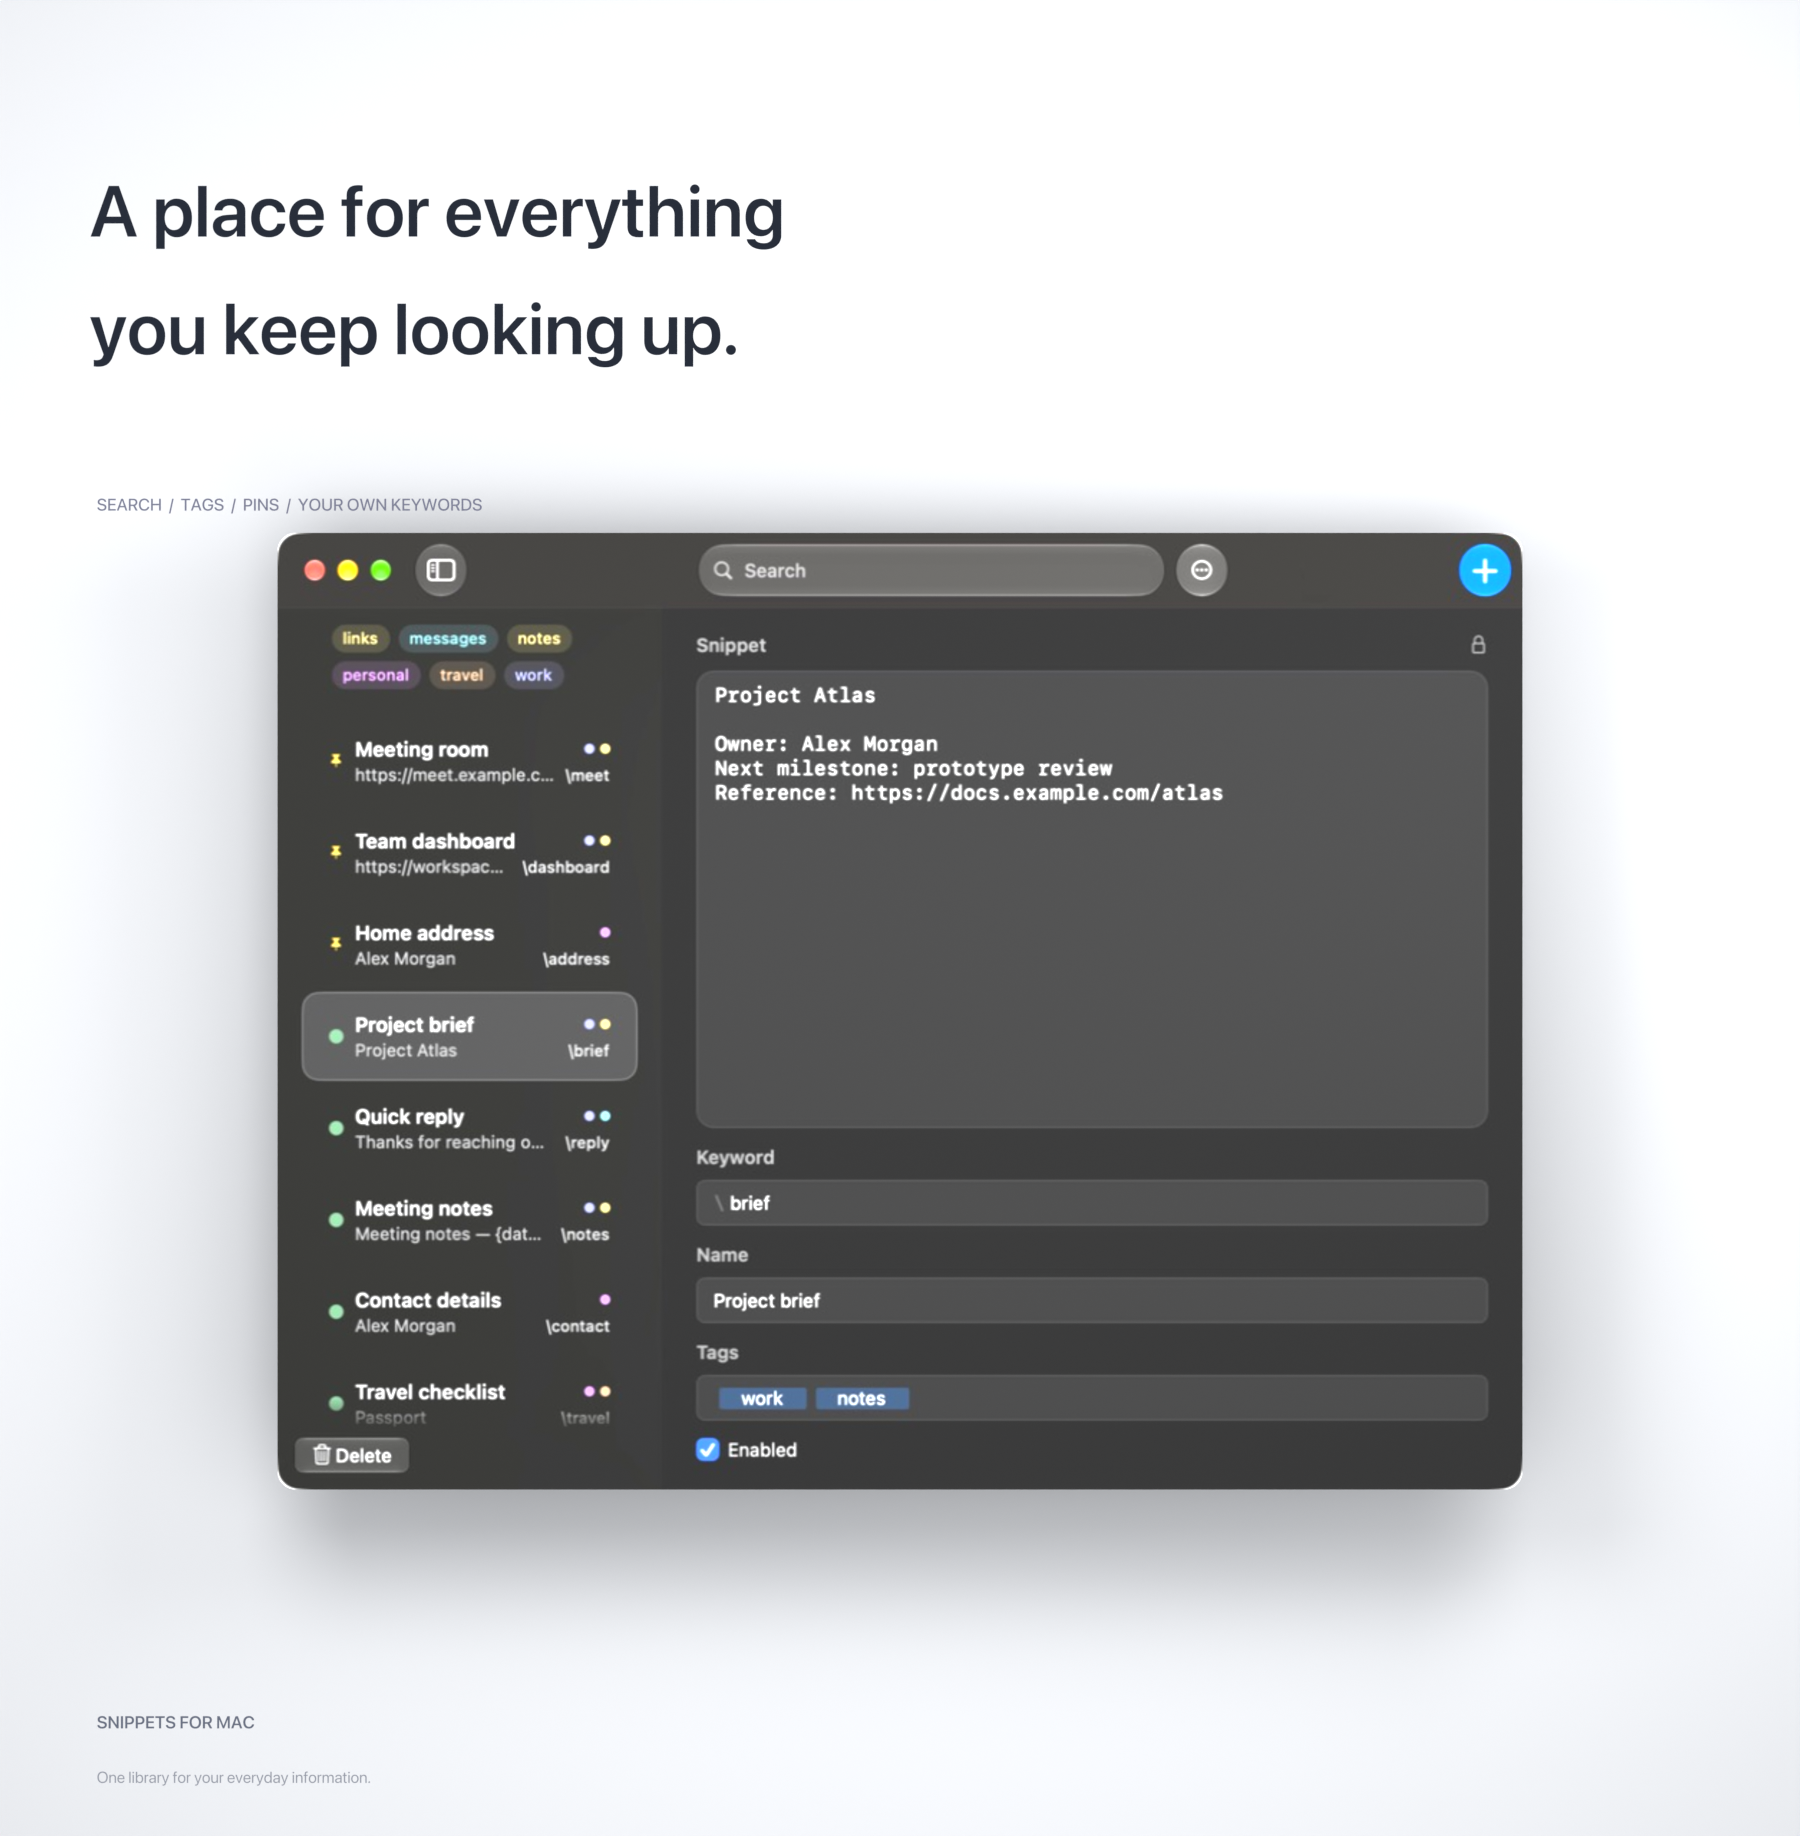
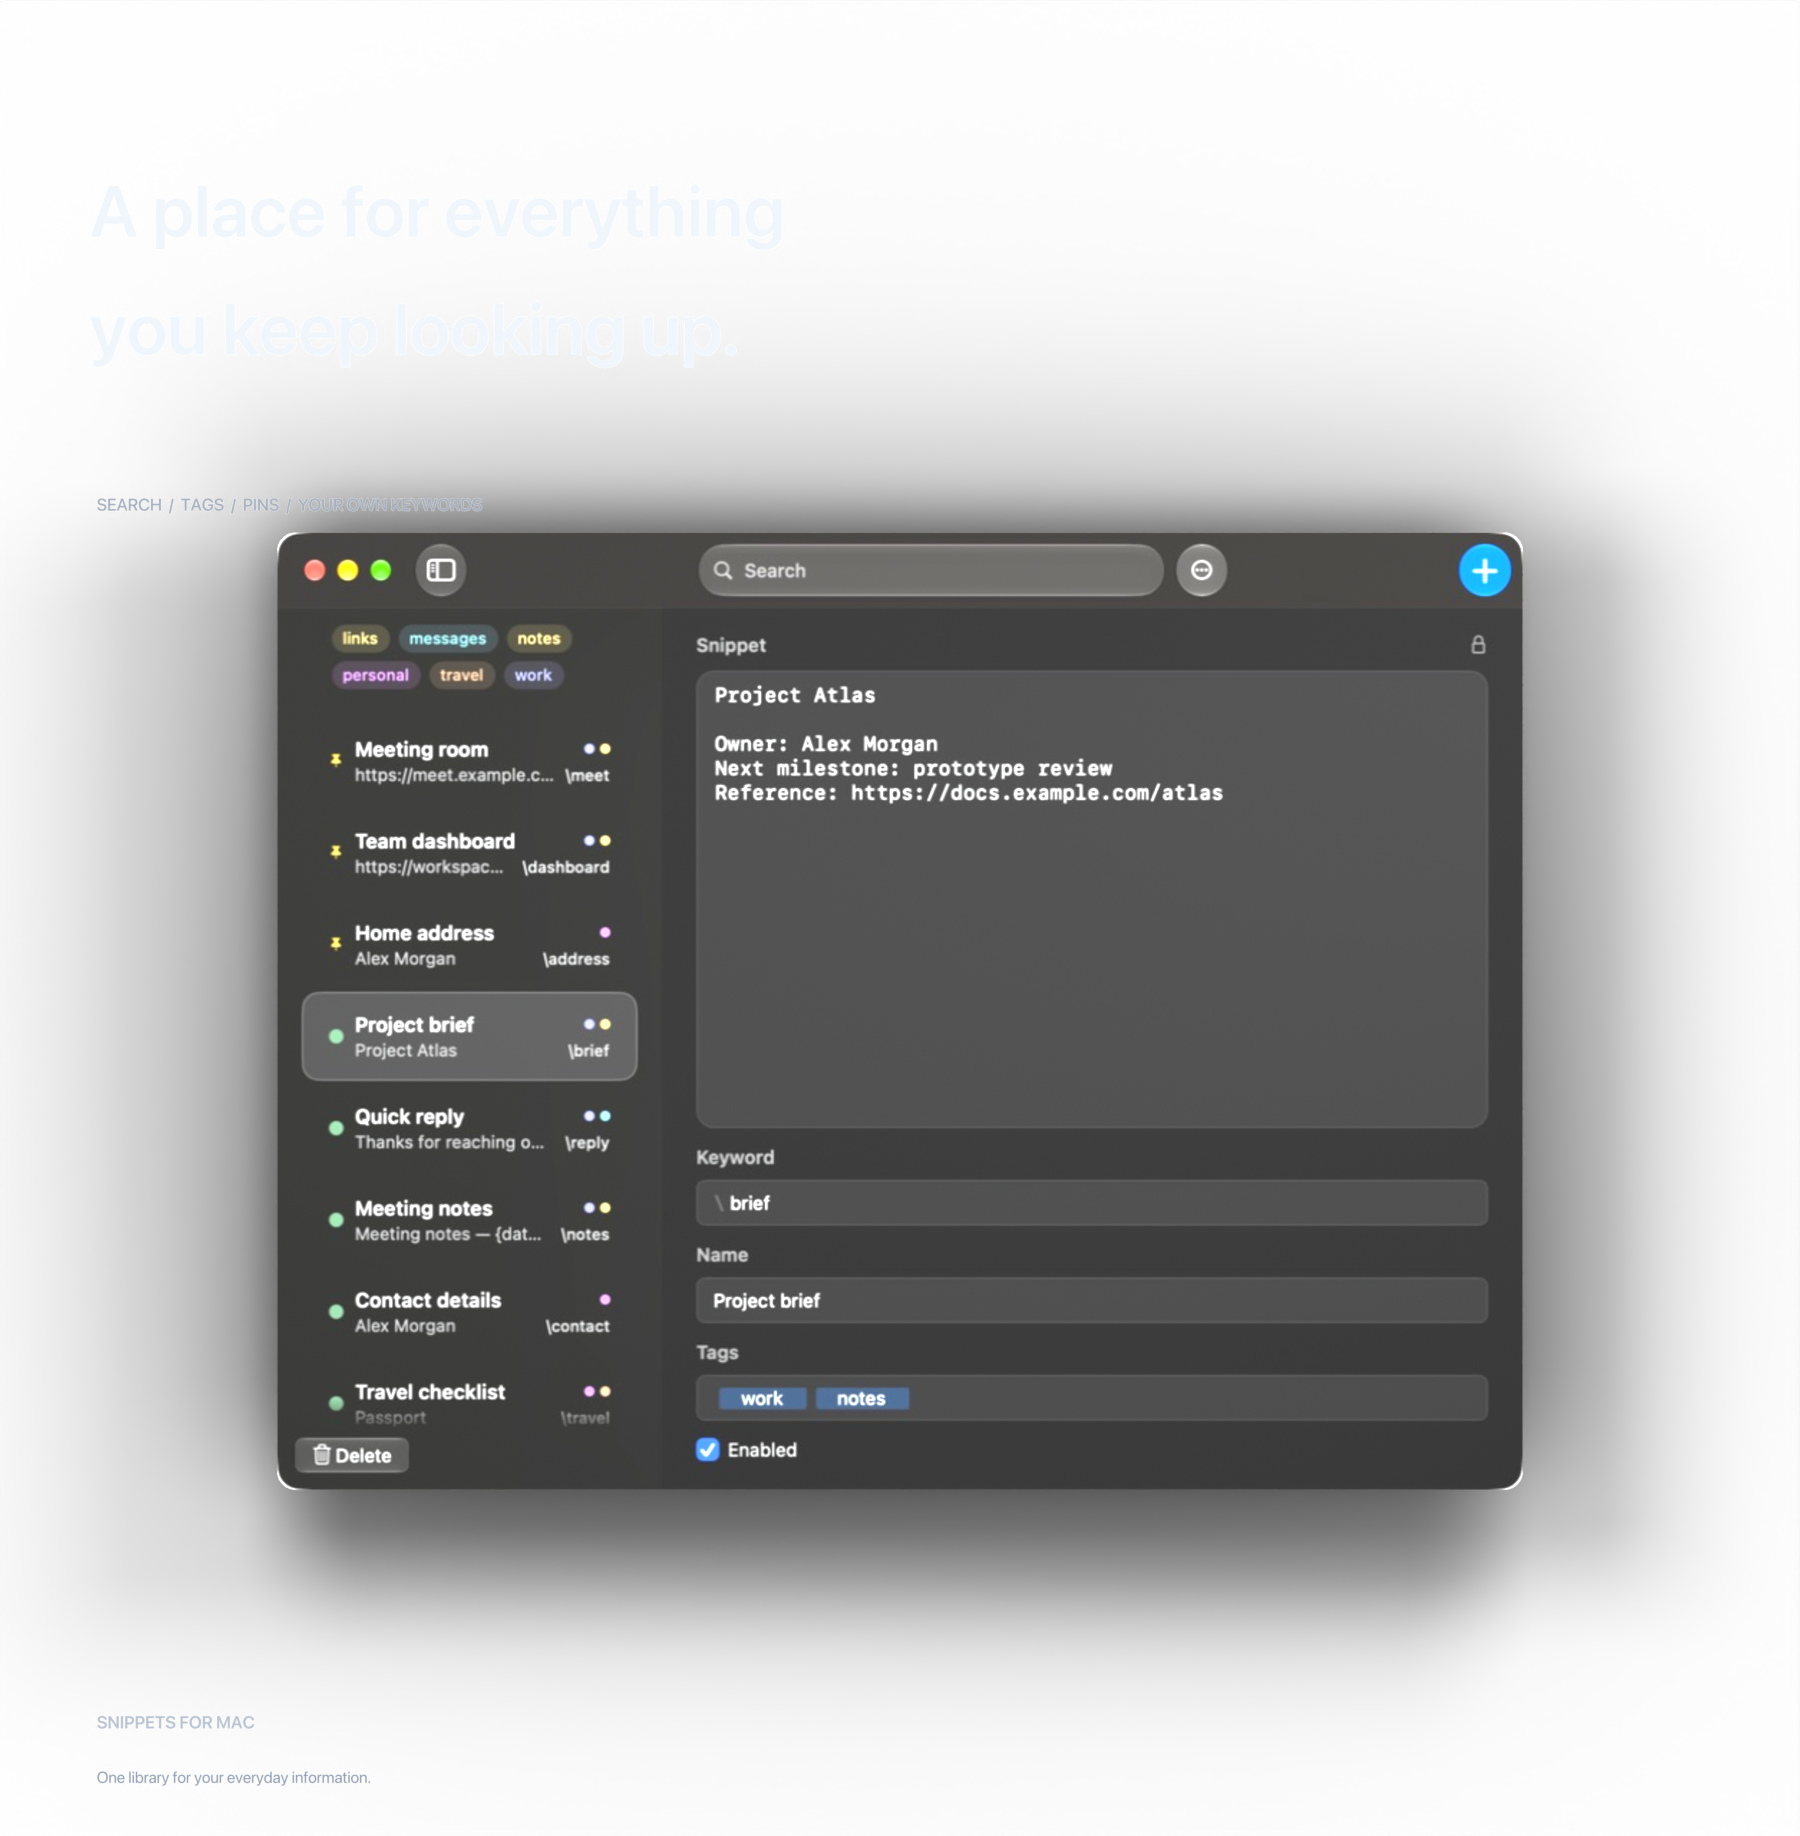
docs: blend README artwork into dark mode

Changed region(s): [[0.0311, 0.0931, 0.9333, 0.9003], [0.0622, 0.9314, 0.0933, 0.9624]]

diff --git a/scripts/render-readme-artwork.py b/scripts/render-readme-artwork.py
@@ -16,7 +16,7 @@ parser = argparse.ArgumentParser()
 parser.add_argument('--output', type=Path, default=ROOT / 'docs/images')
 parser.add_argument('--samples', type=int, default=64)
 parser.add_argument('--width', type=int, default=1800)
-parser.add_argument('--only', choices=['mac', 'inline', 'all'], default='all')
+parser.add_argument('--only', choices=['mac', 'inline', 'consent', 'all'], default='all')
 parser.add_argument('--save-blend', action='store_true', help='Also export portable Blender scenes')
 options = parser.parse_args(args)
 options.output.mkdir(parents=True, exist_ok=True)
@@ -43,7 +43,7 @@ def setup():
     scene.render.resolution_y = round(options.width * 1.02)
     scene.render.resolution_percentage = 100
     scene.render.image_settings.file_format = 'PNG'
-    scene.render.image_settings.color_mode = 'RGB'
+    scene.render.image_settings.color_mode = 'RGBA'
     scene.view_settings.view_transform = 'Standard'
     scene.view_settings.look = 'None'
     # A neutral studio environment opens the shadows; broad softboxes give the
@@ -52,14 +52,14 @@ def setup():
     background = scene.world.node_tree.nodes.get('Background')
     background.inputs['Color'].default_value = (.97, .98, 1, 1)
     background.inputs['Strength'].default_value = .65
-    scene.render.film_transparent = False
-    floor = material('Porcelain', (.64, .65, .67), 1)
+    # Let the README's dark page show through rather than baking in a white card.
+    scene.render.film_transparent = True
+    floor = material('Shadow catcher', (.5, .5, .5), 1)
     floor_shader = floor.node_tree.nodes.get('Principled BSDF')
     floor_shader.inputs['Specular IOR Level'].default_value = .08
-    floor_shader.inputs['Emission Color'].default_value = (.64, .65, .67, 1)
-    floor_shader.inputs['Emission Strength'].default_value = .06
     bpy.ops.mesh.primitive_plane_add(size=200, location=(0, 0, -1.0))
     bpy.context.object.data.materials.append(floor)
+    bpy.context.object.is_shadow_catcher = True
     for name, loc, power, size in [
             ('Key softbox', (-5, 2, 10), 1000, 8),
             ('Edge softbox', (6, 3, 7), 700, 6),
@@ -215,10 +215,10 @@ def render_mac():
     offset = camera.rotation_euler.to_quaternion() @ Vector((.25,-1.3,0))
     for obj in list(scene.objects):
         if obj.type=='MESH' and obj.name!='Plane': obj.location += offset
-    label(camera,'Your library.\nWithin reach.',-5.65,4.75,1.08,(.022,.028,.043))
-    label(camera,'LINKS  /  PASSWORDS  /  NOTES  /  API TOKENS',-5.60,2.84,.25,(.22,.23,.32),'Medium')
-    label(camera,'NATIVE macOS',-5.60,-5.65,.26,(.15,.17,.23),'Semibold')
-    label(camera,'Actual interface · layers separated for illustration',-5.60,-6.03,.23,(.32,.34,.40),'Regular')
+    label(camera,'Your library.\nWithin reach.',-5.65,4.75,1.08,(.87,.92,.97))
+    label(camera,'LINKS  /  PASSWORDS  /  NOTES  /  API TOKENS',-5.60,2.84,.25,(.38,.43,.51),'Medium')
+    label(camera,'NATIVE macOS',-5.60,-5.65,.26,(.48,.54,.63),'Semibold')
+    label(camera,'Actual interface · layers separated for illustration',-5.60,-6.03,.23,(.28,.34,.43),'Regular')
     scene.render.filepath=str(options.output/'macos-layers.png')
     if options.save_blend:
         bpy.ops.file.pack_all()
@@ -233,10 +233,10 @@ def render_front():
     screen_layer(image,'Native Mac workspace',(0,0,*image.size),.1)
     for obj in list(scene.objects):
         if obj.type=='MESH' and obj.name!='Plane': obj.location.y-=.65
-    label(camera,'A place for everything\nyou keep looking up.',-5.65,4.75,1.08,(.022,.028,.043))
-    label(camera,'SEARCH  /  TAGS  /  PINS  /  YOUR OWN KEYWORDS',-5.60,2.84,.25,(.22,.23,.32),'Medium')
-    label(camera,'SNIPPETS FOR MAC',-5.60,-5.65,.26,(.15,.17,.23))
-    label(camera,'One library for your everyday information.',-5.60,-6.03,.23,(.32,.34,.40),'Regular')
+    label(camera,'A place for everything\nyou keep looking up.',-5.65,4.75,1.08,(.87,.92,.97))
+    label(camera,'SEARCH  /  TAGS  /  PINS  /  YOUR OWN KEYWORDS',-5.60,2.84,.25,(.38,.43,.51),'Medium')
+    label(camera,'SNIPPETS FOR MAC',-5.60,-5.65,.26,(.48,.54,.63))
+    label(camera,'One library for your everyday information.',-5.60,-6.03,.23,(.28,.34,.43),'Regular')
     scene.render.filepath=str(options.output/'macos-overview.png')
     bpy.ops.render.render(write_still=True)
 
@@ -269,13 +269,11 @@ def render_inline():
         mat.node_tree.links.new(emission.outputs[0], output.inputs['Surface'])
         return mat
 
-    rounded_surface('Paper', 18.2, 11, 0, -.1,
-                    mat=flat_material('Paper', '#f5f6f8'))
-    field = flat_material('Illustrative message field', '#2a303e')
+    field = flat_material('Illustrative message field', '#171e29')
     for x in (-4.15, 4.15):
         rounded_surface('Message', 7.9, 5.5, .24, 0, mat=field, center=(x, -.75))
 
-    ink, muted = color('#1b2332'), color('#6b7280')
+    ink, muted = color('#f0f6fc'), color('#9ba8b9')
     text, accent = color('#eef0f6'), color('#b4adff')
     label(camera, 'Your saved links. Right where you type.', -8.10, 4.15, 1.14, ink)
     label(camera, 'Find a suggestion. Press Return. Keep typing.', -8.08, 3.40, .54, muted, 'Regular')
@@ -311,8 +309,82 @@ def render_inline():
     scene.render.filepath = str(options.output/'inline-insertion.png')
     bpy.ops.render.render(write_still=True)
 
+
+def render_consent():
+    # AppKit's 4× layer export keeps the native text crisp but omits the system
+    # glass button surfaces. Restore those two regions from the native window
+    # capture, preserving their production positions, labels, and appearance.
+    scene, camera = setup()
+    for obj in list(scene.objects):
+        if obj != camera:
+            bpy.data.objects.remove(obj, do_unlink=True)
+    scene.render.resolution_y = round(options.width * 2 / 3)
+    scene.cycles.use_denoising = False
+    camera.location = (0, 0, 20)
+    camera.rotation_euler = (0, 0, 0)
+    camera.data.ortho_scale = 19.2
+
+    def flat(name, channels):
+        mat = bpy.data.materials.new(name)
+        mat.use_nodes = True
+        nodes = mat.node_tree.nodes
+        nodes.clear()
+        emission = nodes.new('ShaderNodeEmission')
+        linear = [v / 12.92 if v <= .04045 else ((v + .055) / 1.055) ** 2.4
+                  for v in channels]
+        emission.inputs['Color'].default_value = (*linear, 1)
+        output = nodes.new('ShaderNodeOutputMaterial')
+        mat.node_tree.links.new(emission.outputs[0], output.inputs['Surface'])
+        return mat
+
+    def unlit_texture(obj, backing=None):
+        mat = obj.data.materials[0]
+        nodes, links = mat.node_tree.nodes, mat.node_tree.links
+        texture = next(node for node in nodes if node.type == 'TEX_IMAGE')
+        emission = nodes.new('ShaderNodeEmission')
+        color = texture.outputs['Color']
+        if backing:
+            # Composite native alpha directly in the shader so flat backgrounds
+            # stay noise-free; transparent rays would add Monte Carlo grain.
+            mix = nodes.new('ShaderNodeMixRGB')
+            links.new(texture.outputs['Alpha'], mix.inputs[0])
+            mix.inputs[1].default_value = (*backing, 1)
+            links.new(color, mix.inputs[2])
+            color = mix.outputs[0]
+        links.new(color, emission.inputs['Color'])
+        links.new(emission.outputs[0], nodes.get('Material Output').inputs['Surface'])
+
+    # A neutral dark frame replaces the screen-dependent glass backdrop. The
+    # 22 pt corner radius and 1 pt border follow the production consent window.
+    border = flat('Consent border', (88/255, 94/255, 102/255))
+    backing = flat('Consent dark backing', (43/255, 46/255, 50/255))
+    rounded_surface('Consent frame', 19.2, 12.8, .88, 0, mat=border)
+    content = bpy.data.images.load(str(ROOT/'docs/artwork/sources/consent-content.png'), check_existing=True)
+    native = rounded_surface('Native consent content', 19.12, 12.72, .84, .002,
+        texture=content, uv=(4/1920, 4/1280, 1916/1920, 1276/1280))
+    backing_color = next(node for node in backing.node_tree.nodes
+                         if node.type == 'EMISSION').inputs['Color'].default_value[:3]
+    unlit_texture(native, backing=backing_color)
+
+    controls = bpy.data.images.load(str(ROOT/'docs/artwork/sources/consent-controls.jpg'), check_existing=True)
+    sw, sh = controls.size
+    for name, crop in [('Deny', (520, 566, 712, 630)), ('Reveal', (728, 566, 948, 630))]:
+        x0, y0, x1, y1 = crop
+        # The source has a 36 px window-shadow inset and is captured at 2×.
+        width, height = (x1-x0)/50, (y1-y0)/50
+        center = ((x0+x1-1032)/100, (712-y0-y1)/100)
+        button = rounded_surface('Native '+name+' button', width, height, .24, .003,
+            texture=controls, uv=(x0/sw, 1-y1/sh, x1/sw, 1-y0/sh), center=center)
+        unlit_texture(button)
+
+    scene.render.filepath = str(options.output/'cli-secure-consent.png')
+    bpy.ops.render.render(write_still=True)
+
+
 if options.only in ('mac','all'):
     render_mac()
     render_front()
 if options.only in ('inline','all'):
     render_inline()
+if options.only in ('consent','all'):
+    render_consent()

diff --git a/docs/artwork/README.md b/docs/artwork/README.md
@@ -4,8 +4,10 @@ The README uses actual native UI as screenshot textures in a small Blender scene
 The Mac perspective image separates visual regions into physical layers with rounded
 edges, thickness, studio lighting, and soft shadows. This is an editorial composition,
 not an Xcode view-hierarchy dump or a different mode of the app.
-The studio uses three broad area lights, a neutral environment fill, a matte floor,
-and restrained reflections so the interface stays legible.
+The studio uses three broad area lights, a neutral environment fill, a transparent
+shadow catcher, and restrained reflections so the interface stays legible.
+Both Mac compositions, the inline illustration, and the consent preview have transparent PNG canvases
+and light captions, designed to blend into GitHub's dark README background.
 
 The inline illustration uses a flat before/after layout for readability: the native
 suggestion view sits under a keyword, followed by the message with the saved link.
@@ -28,14 +30,19 @@ It uses an orthographic camera and unlit colors, without perspective or raised l
   backdrop; labels, selection, and layout are rendered by the production UI classes.
 - `../images/ipad-landscape-*.png`: direct, full-resolution 2752 × 2064 captures
   from the native iPad app on an isolated iPad Pro simulator. A documentation-only
-  copy of the existing screenshot UI test used landscape orientation and eight
+  copy of the existing screenshot UI test used dark mode, landscape orientation, and eight
   fictional entries. The capture test passed. ImageIO normalized the PNG orientation
   metadata for consistent browser display; no frame, background, or UI redesign was
   added. The main repository's app and test sources were not changed.
-- `../images/cli-secure-consent.jpg`: the production AppKit consent-window UI from
+- `../images/cli-secure-consent.png`: the production AppKit consent-window UI from
   `ControlServer.swift`, instantiated in an isolated preview with fictional snippet
-  metadata and a Terminal caller example. This preview displays the real UI layout;
-  it does not start the IPC server, read a vault, authenticate, or reveal a secret.
+  metadata and a Terminal caller example. `sources/consent-content.png` is a 4×
+  native layer export; AppKit omits system glass button surfaces from that export,
+  so the renderer restores only those two regions from the 2× native window capture
+  in `sources/consent-controls.jpg`. It places the native content on a neutral dark
+  frame with the production corner radius and border, preserving the UI layout.
+  The final 1920 × 1280 PNG is displayed at 480 CSS pixels wide. No IPC server,
+  vault read, authentication, or secret reveal is involved in the preview.
 - `../images/macos-clipboard-history.png`: a 4× AppKit export (2720 × 1680) of
   the native `ClipboardHistoryPanelController`, running with the production history service
   and eight fictional entries in an isolated AppKit preview. The fixture injects
@@ -68,7 +75,10 @@ From the repository root:
   --output docs/images --width 1800 --samples 64
 ```
 
-Use `--only mac` or `--only inline` for a faster iteration. Add `--save-blend` to
+Use `--only mac`, `--only inline`, or `--only consent` for a faster iteration.
+The consent image was rendered with `--only consent --width 1920 --samples 64`;
+the Mac and inline compositions use `--width 1800 --samples 96`.
+Add `--save-blend` to
 export a portable, texture-packed Mac scene alongside the PNG. The generated `.blend`
 file is optional and is not needed to view the README.
 

diff --git a/README.md b/README.md
@@ -259,10 +259,10 @@ For example, ask your agent:
 > before continuing. Do not include the token in your response.
 
 <p align="center">
-  <img src="docs/images/cli-secure-consent.jpg" width="516" alt="Native Mac approval prompt for Atlas API token, showing snippets-cli reveal atlas-token, the requesting Terminal app, and Deny and Reveal buttons">
+  <img src="docs/images/cli-secure-consent.png" width="480" alt="Native Mac approval prompt for Atlas API token, showing snippets-cli reveal atlas-token, the requesting Terminal app, and Deny and Reveal buttons">
 </p>
 
-*The native macOS approval window, shown with fictional demo metadata.*
+*Native macOS approval UI, composed from an isolated preview with fictional demo metadata.*
 
 1. The agent finds a secure entry by its metadata or known keyword.
 2. `snippets-cli reveal atlas-token` asks the running Mac app for access.
